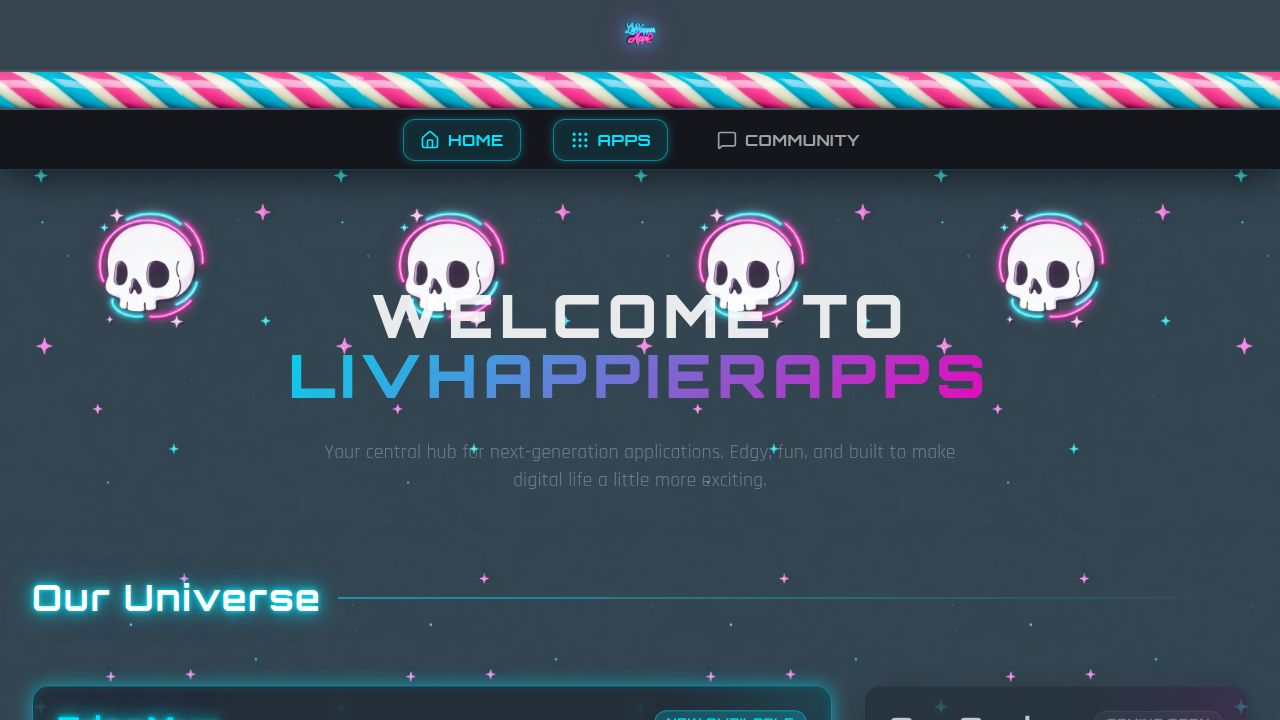
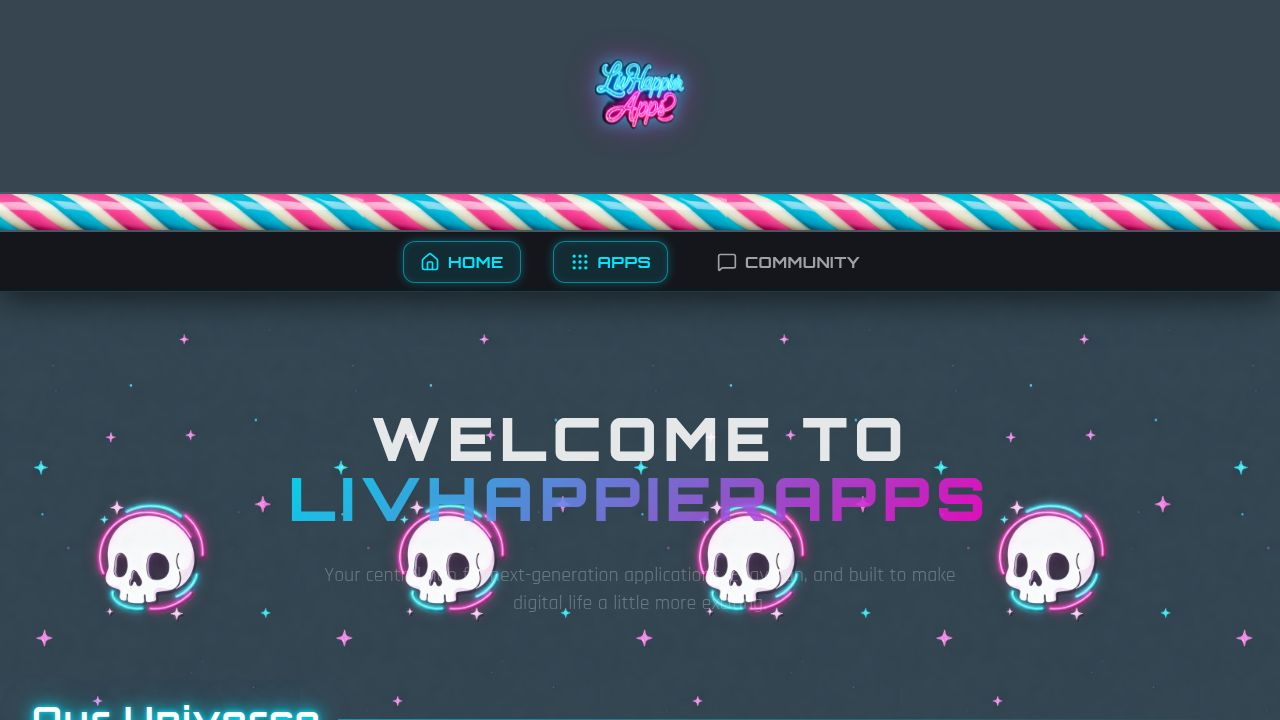
Improve website compatibility for Android users
Add explicit browser target to Vite config and remove problematic CSS background attachment.

Replit-Commit-Author: Agent
Replit-Commit-Session-Id: 08ffc77c-5109-4af5-8936-978fd1c13b0b
Replit-Commit-Checkpoint-Type: full_checkpoint
Replit-Commit-Event-Id: 2244ed66-e141-4144-b8f3-c2ae5018ee92
Replit-Commit-Screenshot-Url: https://storage.googleapis.com/screenshot-production-us-central1/ae81ae43-23b0-4e98-9616-dca5b92ee471/08ffc77c-5109-4af5-8936-978fd1c13b0b/buBwPbS
Replit-Helium-Checkpoint-Created: true

diff --git a/artifacts/livhappier-website/vite.config.ts b/artifacts/livhappier-website/vite.config.ts
@@ -57,6 +57,7 @@ export default defineConfig({
   build: {
     outDir: path.resolve(import.meta.dirname, "dist/public"),
     emptyOutDir: true,
+    target: ["chrome89", "firefox89", "safari14", "edge89"],
   },
   server: {
     port,

diff --git a/artifacts/livhappier-website/src/index.css b/artifacts/livhappier-website/src/index.css
@@ -101,7 +101,6 @@
   background-color: #36454f;
   background-image: url('/bg.jpeg');
   background-repeat: repeat;
-  background-attachment: fixed;
   background-size: 300px auto;
   display: flex;
   flex-direction: column;
